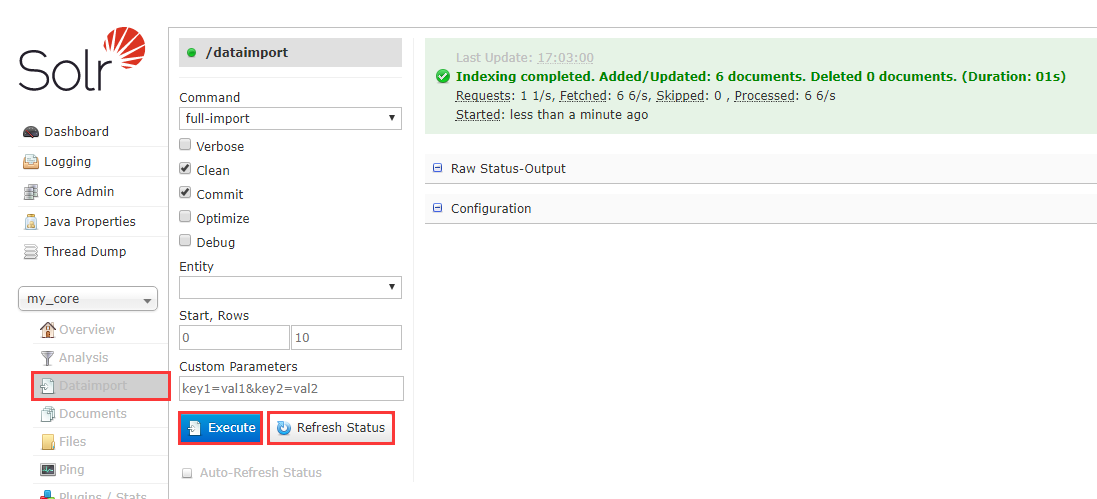
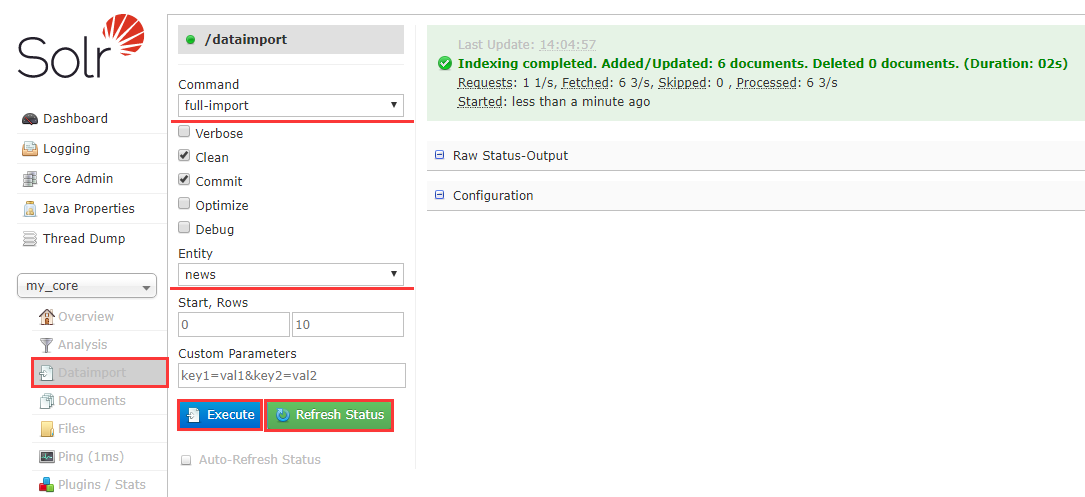
:rocket: article "全文检索引擎Solr搭建" update for "分词器"

Changed region(s): [[0.0, 0.0302, 1.0, 1.0], [0.0, 0.2113, 0.1217, 0.5131], [0.3954, 0.3018, 1.0, 0.4527]]

diff --git a/source/_posts/全文检索引擎Solr搭建.md b/source/_posts/全文检索引擎Solr搭建.md
@@ -9,8 +9,6 @@ categories : 技术水波文
 
 {% cq %} Solr是一个高性能，采用Java5开发，基于Lucene的全文搜索服务器。同时对其进行了扩展，提供了比Lucene更为丰富的查询语言，同时实现了可配置、可扩展并对查询性能进行了优化，并且提供了一个完善的功能管理界面，是一款非常优秀的全文搜索引擎。 {% endcq %}
 
-<!-- more -->
-
 ## 准备
 
 ### 配置环境
@@ -24,7 +22,7 @@ categories : 技术水波文
 
 下载Solr后解压得到目录
 
-``` text
+```text
 ├─bin               // 脚本的启动目录
 ├─contrib           // 第三方 jar 包存放目录
 ├─dist              // 编译打包后存放目录，即构建后的输出产物存放目录
@@ -32,11 +30,12 @@ categories : 技术水波文
 ├─example           // 示范例子的存放目录，example-DIH 目录下的是一些 solr 索引 core 样例
 ├─licenses          // solr 相关的一些许可信息
 └─server            // solr 服务端工作目录，自带集成 jetty 插件方式启动 solr 服务器
+    │ start.jar     // 服务端启动 jar 包
     ├─solr          // solr 搜索引擎工作目录，即 SOLRHOME
-    ├─solr-webapp   // solr 后台管理页面 webapp
-    └─start.jar     // 服务端启动 jar 包
+    └─solr-webapp   // solr 后台管理页面 webapp
+     
 ```
-
+<!-- more -->
 ## 启动
 
 进入 /bin 目录， 按住 shift + 鼠标右键打开命令窗口
@@ -79,16 +78,14 @@ solr create -c my_core
 
 ``` text
 ├─conf               // 存放core的配置文件
-│  ├─solrconfig.xml  // 定义了这个 core 的配置信息
-│  └─start.jar       // 定义索引库的字段及分词器等，这个配置文件是核心文件
+│    solrconfig.xml  // 定义了这个 core 的配置信息
+│    start.jar       // 定义索引库的字段及分词器等，这个配置文件是核心文件
 └─data               // 存放core的数据，即index-索引文件和log-日志记录
 ```
 
-## core 配置
+## 导入数据
 
-### 数据导入
-
-导入 oracle 表 news 中的数据
+导入 oracle 表 <a href="{% asset_path news.sql %}">news</a> 中的数据
 
 ![table_news](/全文检索引擎Solr搭建/4-1.png)
 
@@ -113,6 +110,26 @@ solr create -c my_core
 ```
 
 在 %SOLRHOME%/my_core 下创建 lib 文件夹，并将 oracle 驱动包 [ojdbc6.jar](http://www.datanucleus.org/downloads/maven2/oracle/ojdbc6/11.2.0.3/ojdbc6-11.2.0.3.jar) 放到该目录下
+此时 my_core 文件结构如下
+
+```text
+│  core.properties
+│  
+├─conf
+│  │  data-config.xml
+│  │  dataimport.properties
+│  │  managed-schema
+│  │  params.json
+│  │  protwords.txt
+│  │  solrconfig.xml
+│  │  stopwords.txt
+│  │  synonyms.txt
+│  └─lang        
+├─data        
+└─lib
+        ojdbc6.jar
+```
+
 编辑 %SOLRHOME%/my_core/conf/solrconfig.xml，添加类库和数据库配置：
 
 ```xml
@@ -152,8 +169,90 @@ solr restart -p 8983
 
 选择 Query
 
-![Dataimport](/全文检索引擎Solr搭建/4-6.png)
+![Dataimport](/全文检索引擎Solr搭建/5-1.png)
 
 点击 Execute Query 查询数据
 
-![Execute Query](/全文检索引擎Solr搭建/4-7.png)
+![Execute Query](/全文检索引擎Solr搭建/5-2.png)
+
+## 分词器
+`smartcn` 、 `IKAnalyzer` 、 `mmseg4j`，选择其中任意一种即可
+
+### smartcn
+smartcn 是 Solr 同步发行的一个中文分词包，将 solr-7.0.1/contrib/analysis-extras/lucene-libs/lucene-analyzers-smartcn-7.0.1.jar 拷贝至 %SOLRHOME%/my_core/lib，编辑 %SOLRHOME%/my_core/conf/managed-schema 文件，添加配置
+
+```xml
+<!-- smartcn -->
+<fieldType name="text_smartcn" class="solr.TextField" positionIncrementGap="0">
+  <analyzer type="index">
+    <tokenizer class="org.apache.lucene.analysis.cn.smart.HMMChineseTokenizerFactory"/>
+  </analyzer>
+  <analyzer type="query">
+    <tokenizer class="org.apache.lucene.analysis.cn.smart.HMMChineseTokenizerFactory"/>
+  </analyzer>
+</fieldType>
+<!-- smartcn -->
+```
+
+### IKAnalyzer
+
+>IKAnalyzer 是一个开源的，基于 java 语言开发的轻量级的中文分词工具包。
+
+将 [ik-analyzer-solr5](https://github.com/EugenePig/ik-analyzer-solr5) 打包后放至 %SOLRHOME%/my_core/lib 下
+编辑 %SOLRHOME%/my_core/conf/managed-schema 文件，添加配置
+
+```xml
+<!-- IKAnalyzer -->
+<fieldType name="text_ik" class="solr.TextField">
+  <analyzer type="index" isMaxWordLength="false" class="org.wltea.analyzer.lucene.IKAnalyzer"/>
+  <analyzer type="query" isMaxWordLength="true" class="org.wltea.analyzer.lucene.IKAnalyzer"/>
+</fieldType>
+<!-- IKAnalyzer -->
+```
+
+### mmseg4j
+
+>+ mmseg4j 用 Chih-Hao Tsai 的 MMSeg [算法](http://technology.chtsai.org/mmseg) 实现的中文分词器，并实现 lucene 的 analyzer 和 solr 的TokenizerFactory 以方便在Lucene和Solr中使用。
+>+ MMSeg 算法有两种分词方法： Simple 和 Complex，都是基于正向最大匹配。
+>+ mmseg4j 有三种分词模式 simple | complex | max-word，默认是 max-word。
+>+ mmseg4j 的词库强制使用 UTF-8。
+
+下载需要的包
++ [mmseg4j-core-1.10.0.jar](http://central.maven.org/maven2/com/chenlb/mmseg4j/mmseg4j-core/1.10.0/mmseg4j-core-1.10.0.jar)
++ [mmseg4j-solr-2.4.0.jar](http://central.maven.org/maven2/com/chenlb/mmseg4j/mmseg4j-solr/2.4.0/mmseg4j-solr-2.4.0.jar)
+
+放至 %SOLRHOME%/my_core/lib 中
+编辑 %SOLRHOME%/my_core/conf/managed-schema 文件，添加配置
+
+```xml
+<!-- mmseg4j-->
+<fieldType name="text_mmseg4j_complex" class="solr.TextField" positionIncrementGap="100" >
+  <analyzer>
+    <tokenizer class="com.chenlb.mmseg4j.solr.MMSegTokenizerFactory" mode="complex"/>
+  </analyzer>
+</fieldType>
+<fieldType name="text_mmseg4j_maxword" class="solr.TextField" positionIncrementGap="100" >
+  <analyzer>
+    <tokenizer class="com.chenlb.mmseg4j.solr.MMSegTokenizerFactory" mode="max-word" />
+  </analyzer>
+</fieldType>
+<fieldType name="text_mmseg4j_simple" class="solr.TextField" positionIncrementGap="100" >
+  <analyzer>
+    <tokenizer class="com.chenlb.mmseg4j.solr.MMSegTokenizerFactory" mode="simple" />
+  </analyzer>
+</fieldType>
+<!-- mmseg4j-->
+```
+重启服务
+
+### Analysis
+
+分词器配置完成后，选择 Analysis，输入要分词的内容（Field Value），选择字段类型（Analyse Fieldname / FieldType [与配置信息 fieldType name 同步]），点击 Analyse Values 获取分词结果。
+
+![Execute Query](/全文检索引擎Solr搭建/6-1.png)
+
+编辑 %SOLRHOME%/my_core/conf/managed-schema，修改索引字段类型为新添加分词类型其中任意一种即可，这里我们将 text_general 修改为 text_ik，重启服务后重新导入数据
+
+![Execute Query](/全文检索引擎Solr搭建/6-2.png)
+
+这样我们在对该字段行进搜索时就能达到分词搜索的效果了😛
